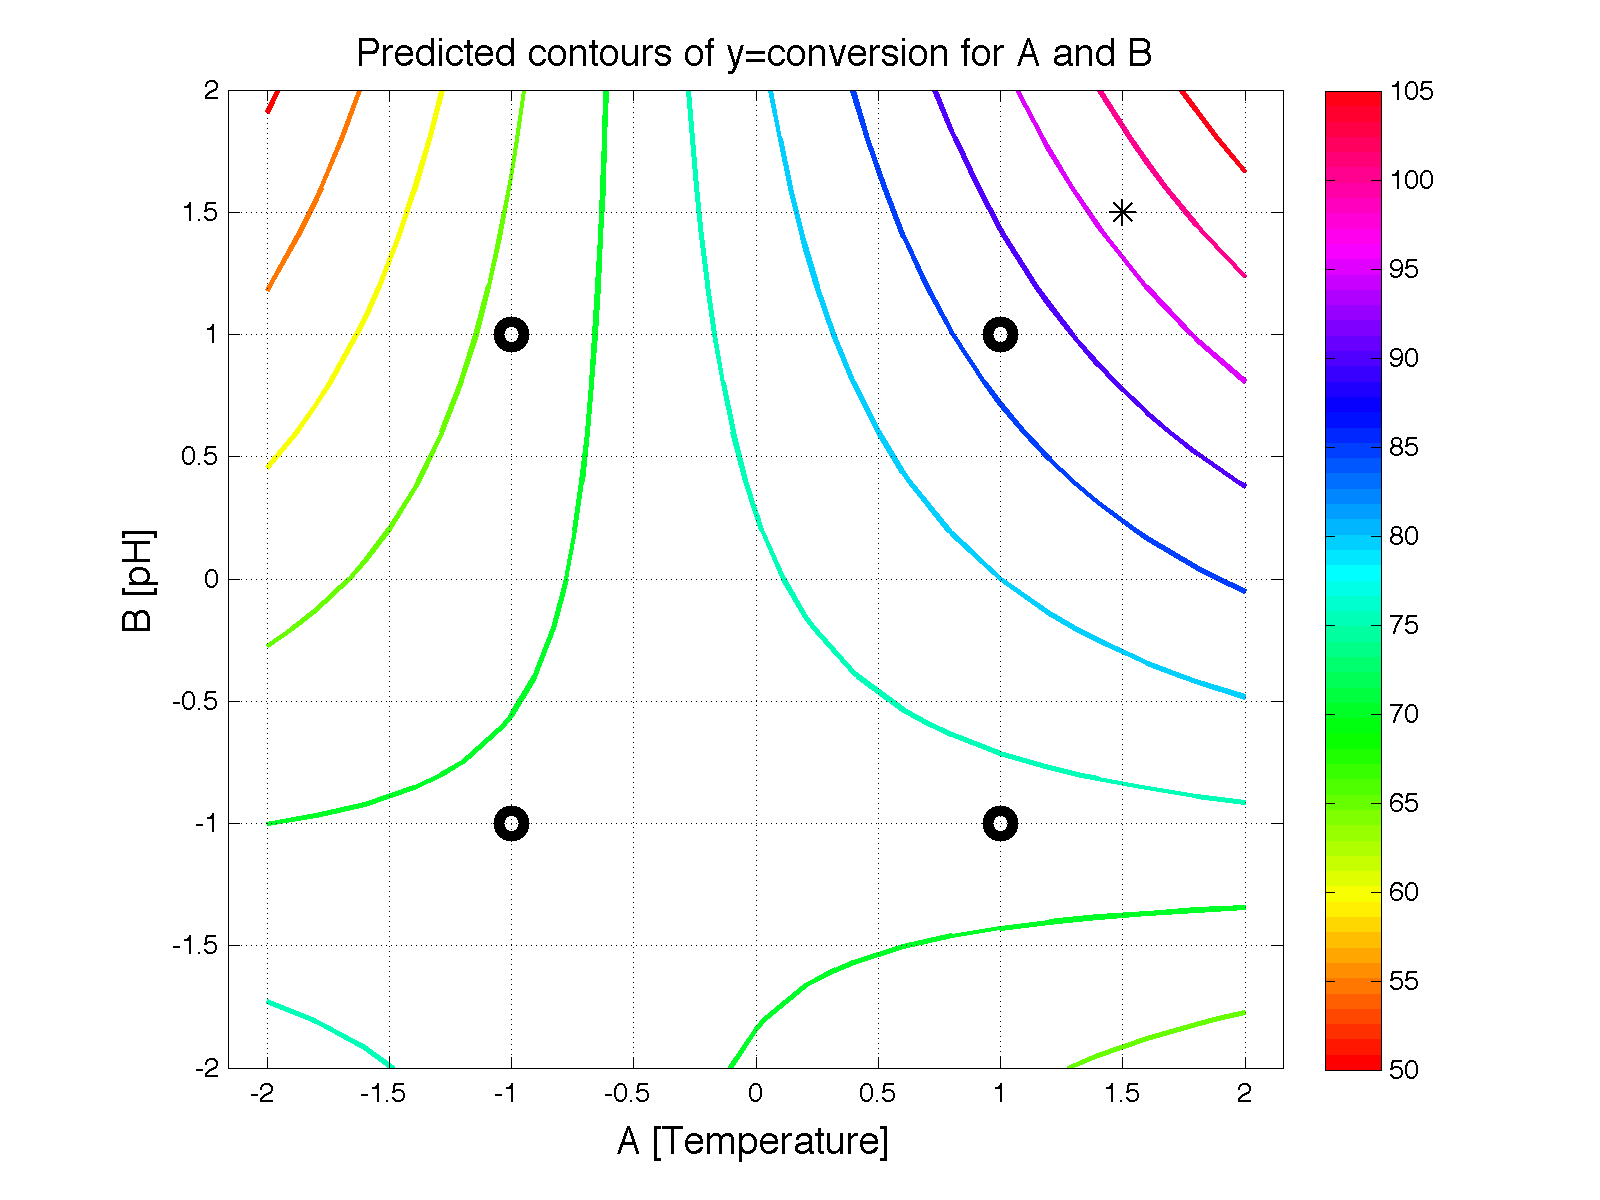
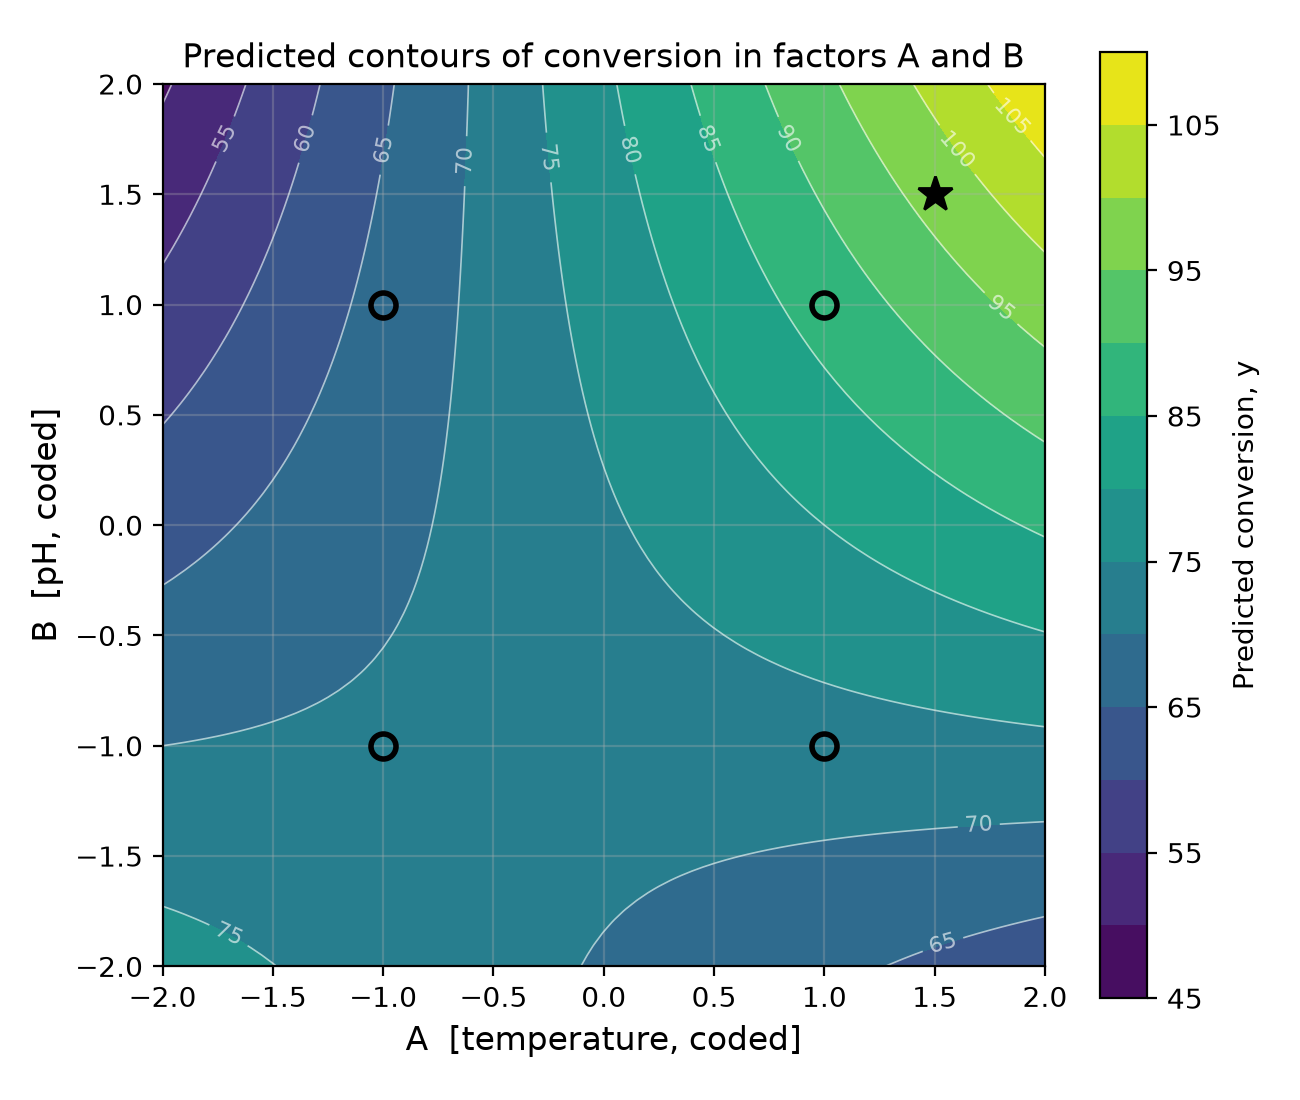
DoE chemical-reaction contours: colourblind-safe regeneration
Regenerate chemical-reaction-contours.png with a perceptually uniform,
colourblind-safe colormap (viridis) instead of the rainbow hsv map, which
was the only rainbow-mapped figure in the Chapter 5 set.

- Add chemical_reaction_contours.py: a matplotlib generator that
  reproduces the exact model and data from the earlier MATLAB script
  (b0 = 74.375, bA = 5.625, bB = 2.375, bAB = 4.625) and renders the
  contour surface, the four factorial corners, and the candidate next run.
- Update chemical_reaction_contours.m to use parula rather than hsv, so
  the archived MATLAB source is also colourblind-safe.
- Regenerate the committed PNG from the Python script.

Parallel to pid-book Chapter 5 exercises PR.

diff --git a/doe/chemical_reaction_contours.py b/doe/chemical_reaction_contours.py
@@ -1,0 +1,59 @@
+"""Predicted conversion contours for the three-factor chemical-reaction
+exercise in Chapter 5 of "Process Improvement using Data".
+
+This regenerates ``chemical-reaction-contours.png``. It reproduces the
+model from the earlier MATLAB script ``chemical_reaction_contours.m``,
+but draws the contour surface with a perceptually uniform, colourblind-safe
+colormap (viridis) instead of the rainbow ``hsv`` map.
+
+Run with, for example:
+    uv run --with numpy --with matplotlib python chemical_reaction_contours.py
+"""
+
+import matplotlib.pyplot as plt
+import numpy as np
+
+# Coded 2^3 design (factors A, B, C) written out with all interactions, then
+# the full least-squares fit, exactly as in the exercise.
+design = np.array(
+    [
+        [1, -1, -1, -1],
+        [1, +1, -1, -1],
+        [1, -1, +1, -1],
+        [1, +1, +1, -1],
+        [1, -1, -1, +1],
+        [1, +1, -1, +1],
+        [1, -1, +1, +1],
+        [1, +1, +1, +1],
+    ],
+    dtype=float,
+)
+A_col, B_col, C_col = design[:, 1], design[:, 2], design[:, 3]
+X = np.column_stack(
+    [design, A_col * B_col, A_col * C_col, B_col * C_col, A_col * B_col * C_col]
+)
+y = np.array([72, 73, 66, 87, 70, 73, 67, 87], dtype=float)
+b = np.linalg.solve(X.T @ X, X.T @ y)  # X is orthogonal
+
+# Predicted-conversion surface in the two active factors A and B.
+A, B = np.meshgrid(np.arange(-2, 2.01, 0.05), np.arange(-2, 2.01, 0.05))
+y_hat = b[0] + b[1] * A + b[2] * B + b[4] * A * B
+
+fig, ax = plt.subplots(figsize=(6.5, 5.5))
+cs = ax.contourf(A, B, y_hat, levels=12, cmap="viridis")
+lines = ax.contour(A, B, y_hat, levels=12, colors="white", linewidths=0.6, alpha=0.6)
+ax.clabel(lines, inline=True, fontsize=8, fmt="%d")
+fig.colorbar(cs, ax=ax, label="Predicted conversion, y")
+
+# The four factorial corners, and a candidate next run at (1.5, 1.5).
+ax.plot([-1, 1, -1, 1], [-1, -1, 1, 1], "ko", markersize=9, markerfacecolor="none",
+        markeredgewidth=2)
+ax.plot(1.5, 1.5, "k*", markersize=13)
+
+ax.set_xlabel("A  [temperature, coded]", fontsize=12)
+ax.set_ylabel("B  [pH, coded]", fontsize=12)
+ax.set_title("Predicted contours of conversion in factors A and B", fontsize=12)
+ax.set_aspect("equal")
+ax.grid(True, alpha=0.3)
+fig.tight_layout()
+fig.savefig("chemical-reaction-contours.png", dpi=200)

diff --git a/doe/chemical_reaction_contours.m b/doe/chemical_reaction_contours.m
@@ -28,8 +28,10 @@ plot(+1, -1, 'ko', 'Markersize', 10, 'LineWidth',4)
 plot(-1, +1, 'ko', 'Markersize', 10, 'LineWidth',4)
 plot(+1, +1, 'ko', 'Markersize', 10, 'LineWidth',4)
 plot(+1.5, +1.5, 'k*', 'Markersize', 10, 'LineWidth',1)
-% Add a colour bar; see the MATLAB help for other colour schemes
-colormap(hsv)
+% Add a colour bar; use a perceptually uniform, colourblind-safe map
+% (parula) rather than the rainbow hsv map. The committed PNG is now
+% generated by chemical_reaction_contours.py (matplotlib, viridis).
+colormap(parula)
 axis equal
 colorbar
 print -dpng -r200 chemical-reaction-contours.png
